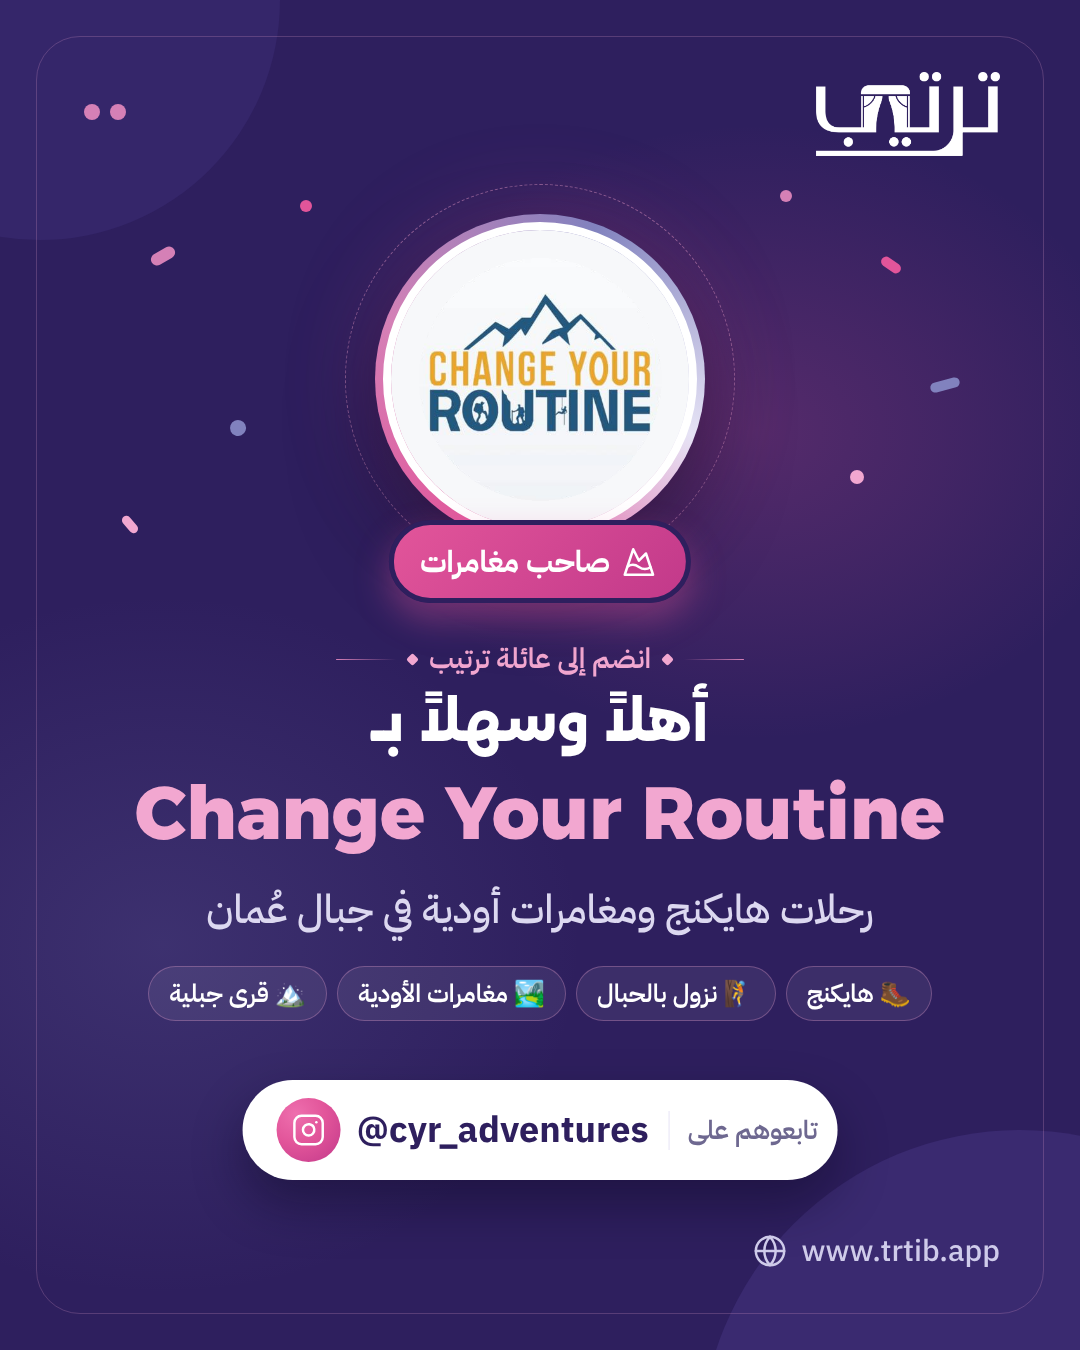
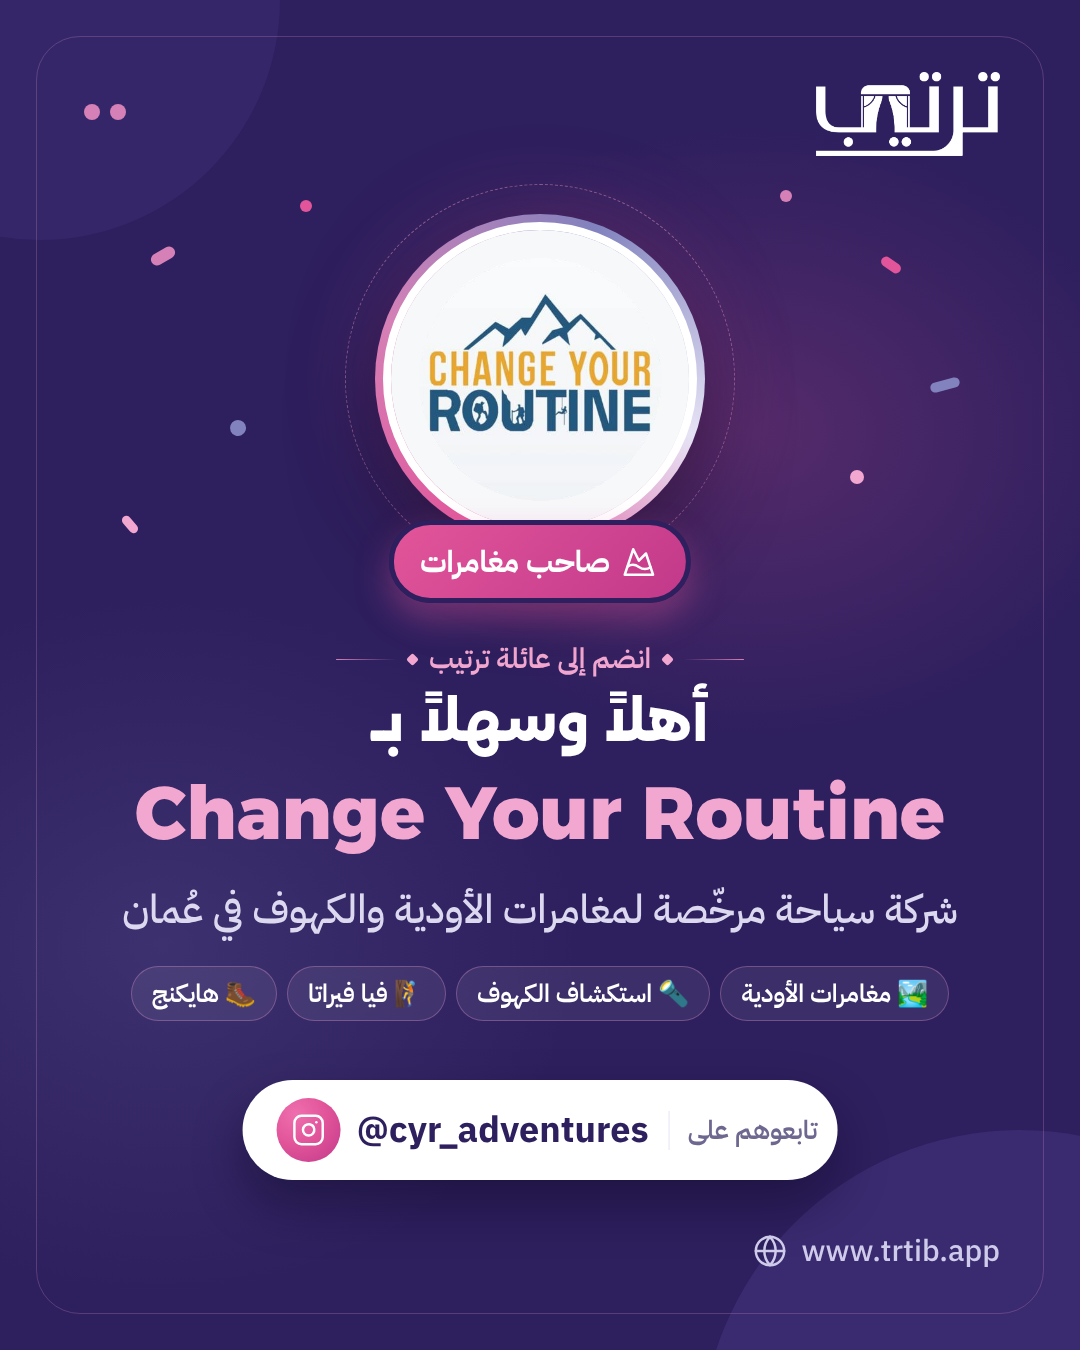
Update Change Your Routine welcome post from their profile
Claude-Session: https://claude.ai/code/session_01Y4xLTeejd6Revr1vrrAijT

Changed region(s): [[0.1222, 0.6533, 0.8861, 0.7467]]

diff --git a/marketing/instagram/source/welcome_cyr.py b/marketing/instagram/source/welcome_cyr.py
@@ -1,4 +1,4 @@
 from welcome import page, D
 (D/'09-welcome-cyr-dark.html').write_text(page(dict(icon='mountain-snow',cat='صاحب مغامرات',name='Change Your Routine',latin=True,
-  desc='رحلات هايكنج ومغامرات أودية في جبال عُمان',tags=['🥾 هايكنج','🧗 نزول بالحبال','🏞 مغامرات الأودية','🏔 قرى جبلية'],
+  desc='شركة سياحة مرخّصة لمغامرات الأودية والكهوف في عُمان',tags=['🏞 مغامرات الأودية','🔦 استكشاف الكهوف','🧗 فيا فيراتا','🥾 هايكنج'],
   handle='@cyr_adventures',photo='logo-cyr.png'),dark=True))
